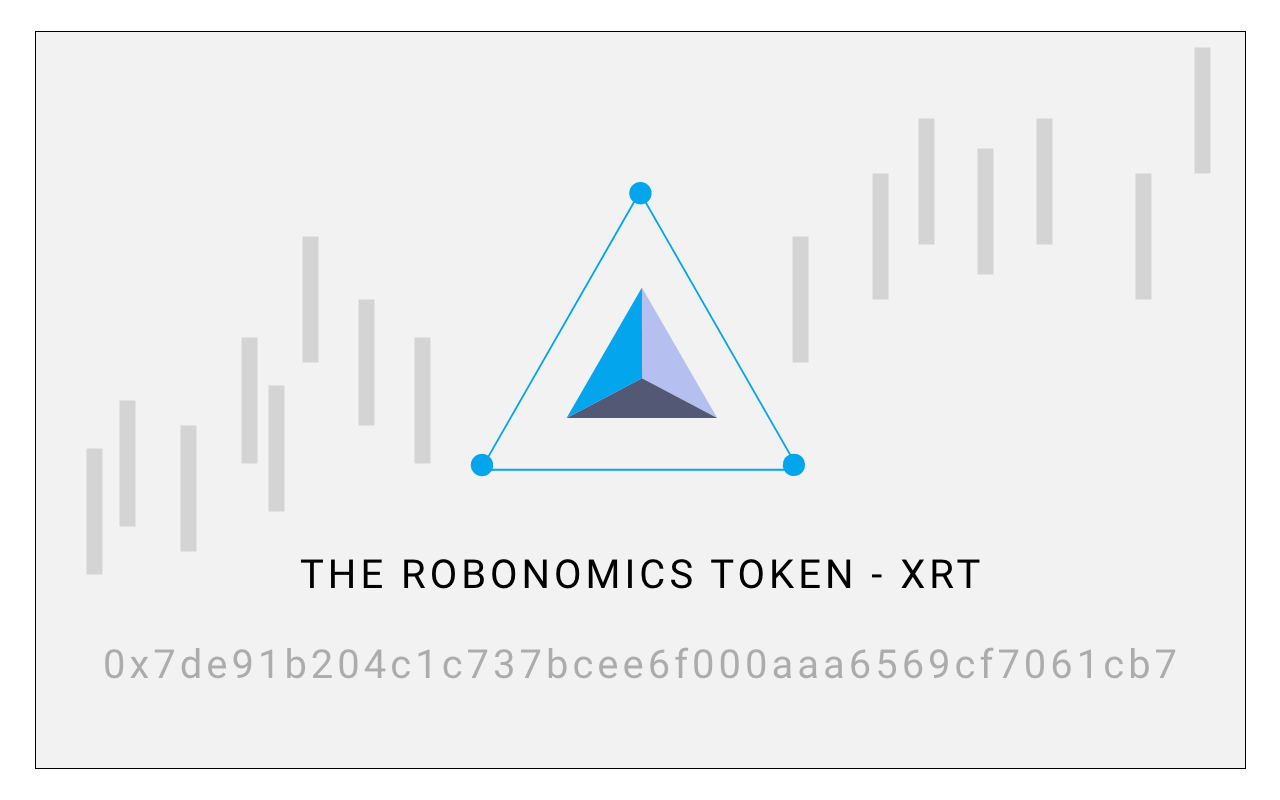
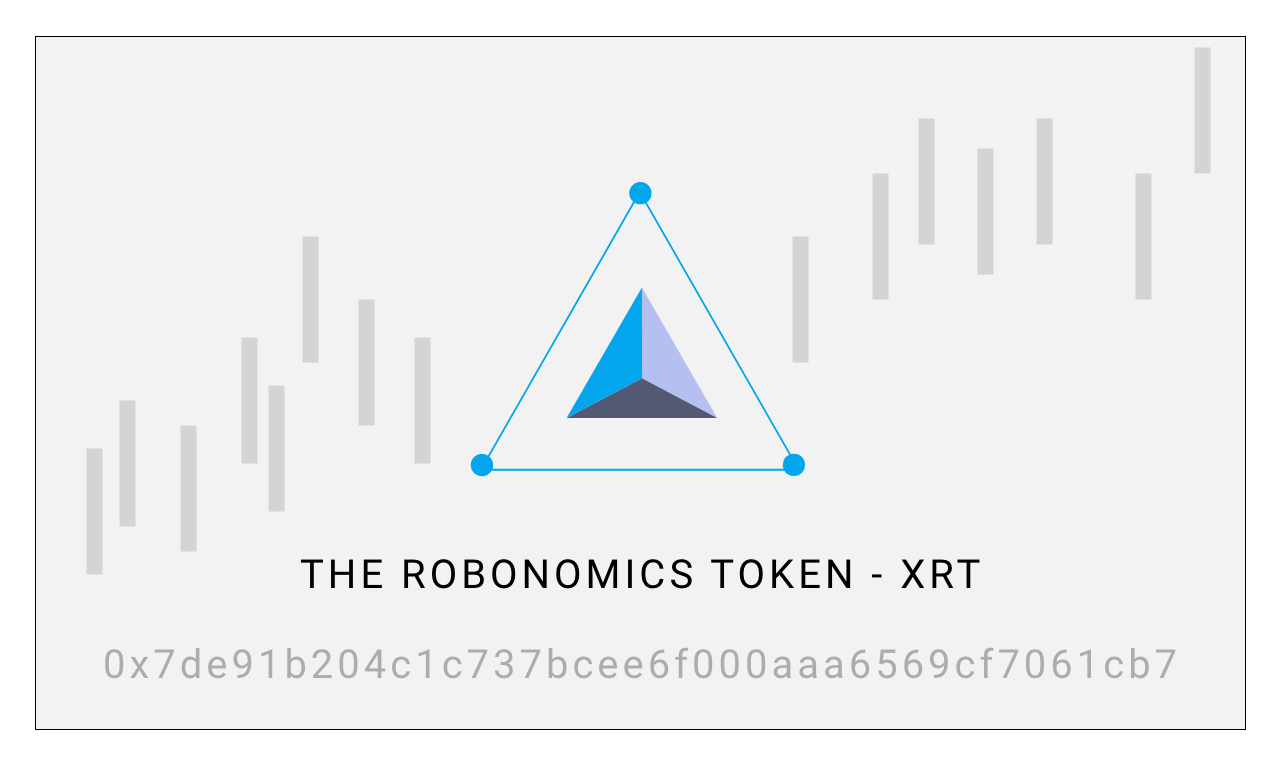
changed cover for Community and sizes for all (1280 x 765)

diff --git a/src/pages/community.vue b/src/pages/community.vue
@@ -4,7 +4,7 @@
     <MetaInfo
       :pageTitle = "'Community'"
       :pageDescription = "'On this page you may find logo assets, wallpapers, documents such as White Paper, links to our scientific papers, social account, read about Robonomics Utility Token (XRT), and dig out other useful information.'"
-      :pageImage = "'/website_cover_token.png'"
+      :pageImage = "'/website_cover_community.png'"
     />
 
     <div class="layout__content layout__text">

diff --git a/src/components/MetaInfo.vue b/src/components/MetaInfo.vue
@@ -44,7 +44,7 @@ export default {
         { property: "og:description", content: this.pageDescription },
         { property: "og:image", content: this.pageImage },
         { property: "og:image:width", content: '1280' },
-        { property: "og:image:height", content: '800' },
+        { property: "og:image:height", content: '765' },
         { property: "og:url", content: this.url },
         // {
         //   property: "og:url",
